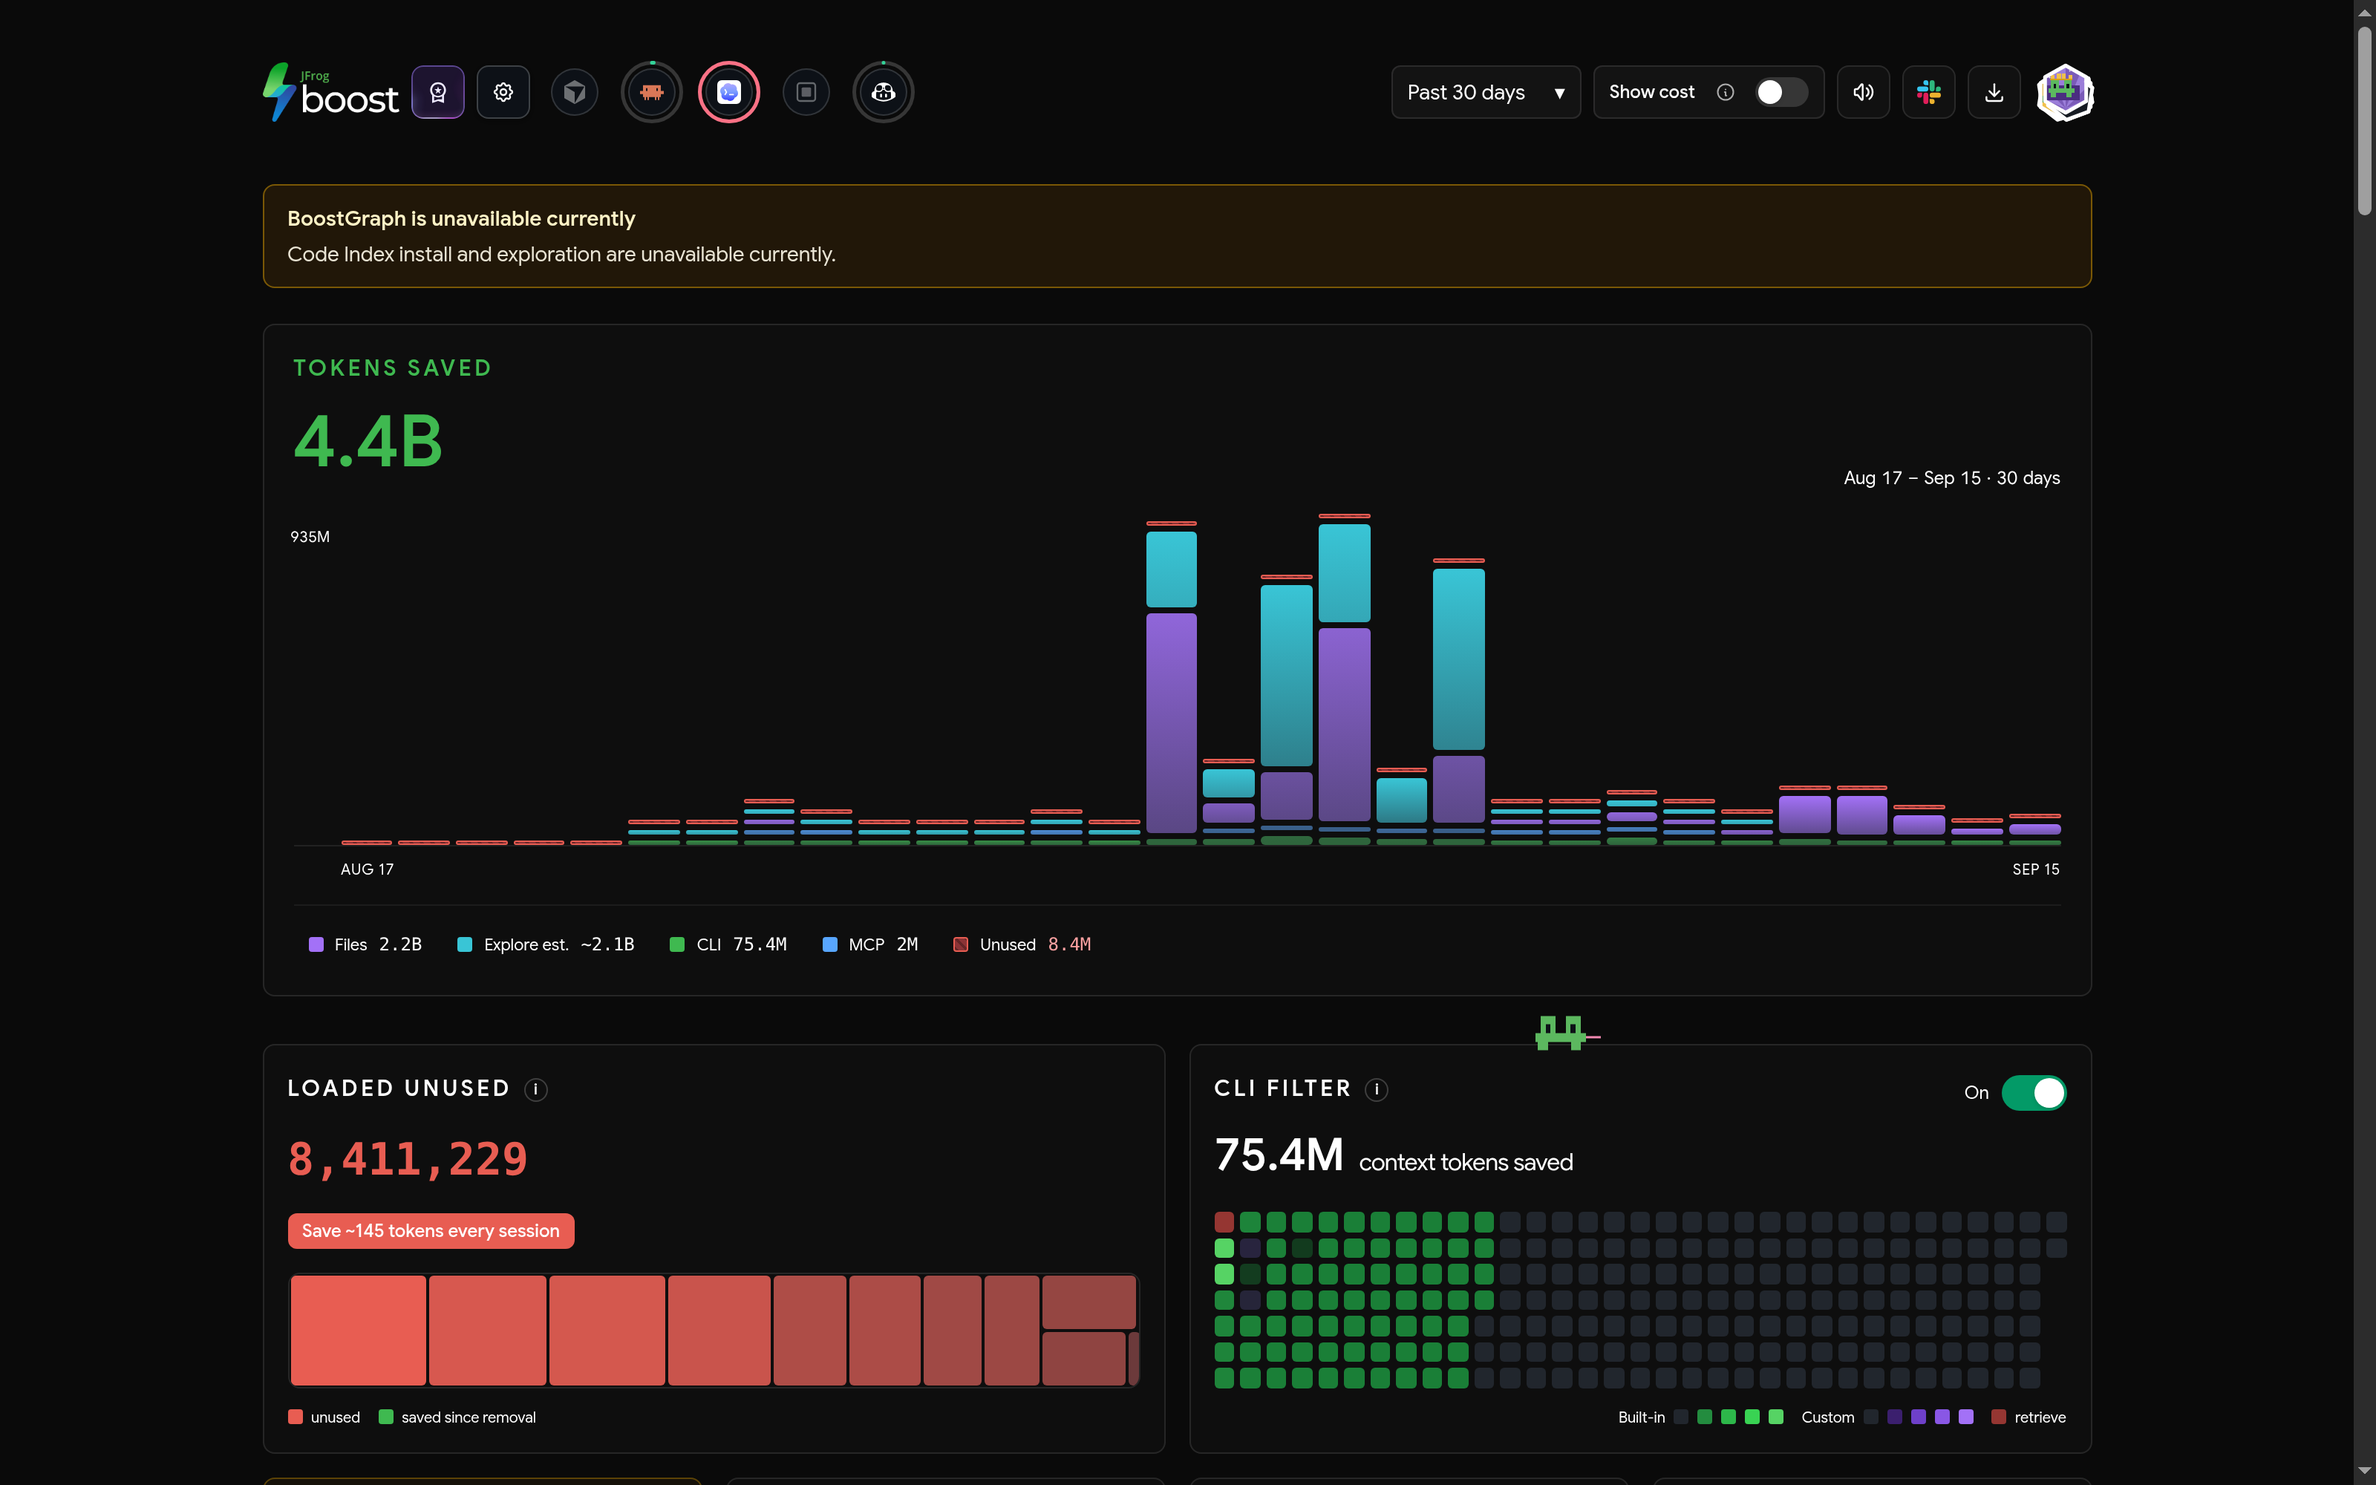
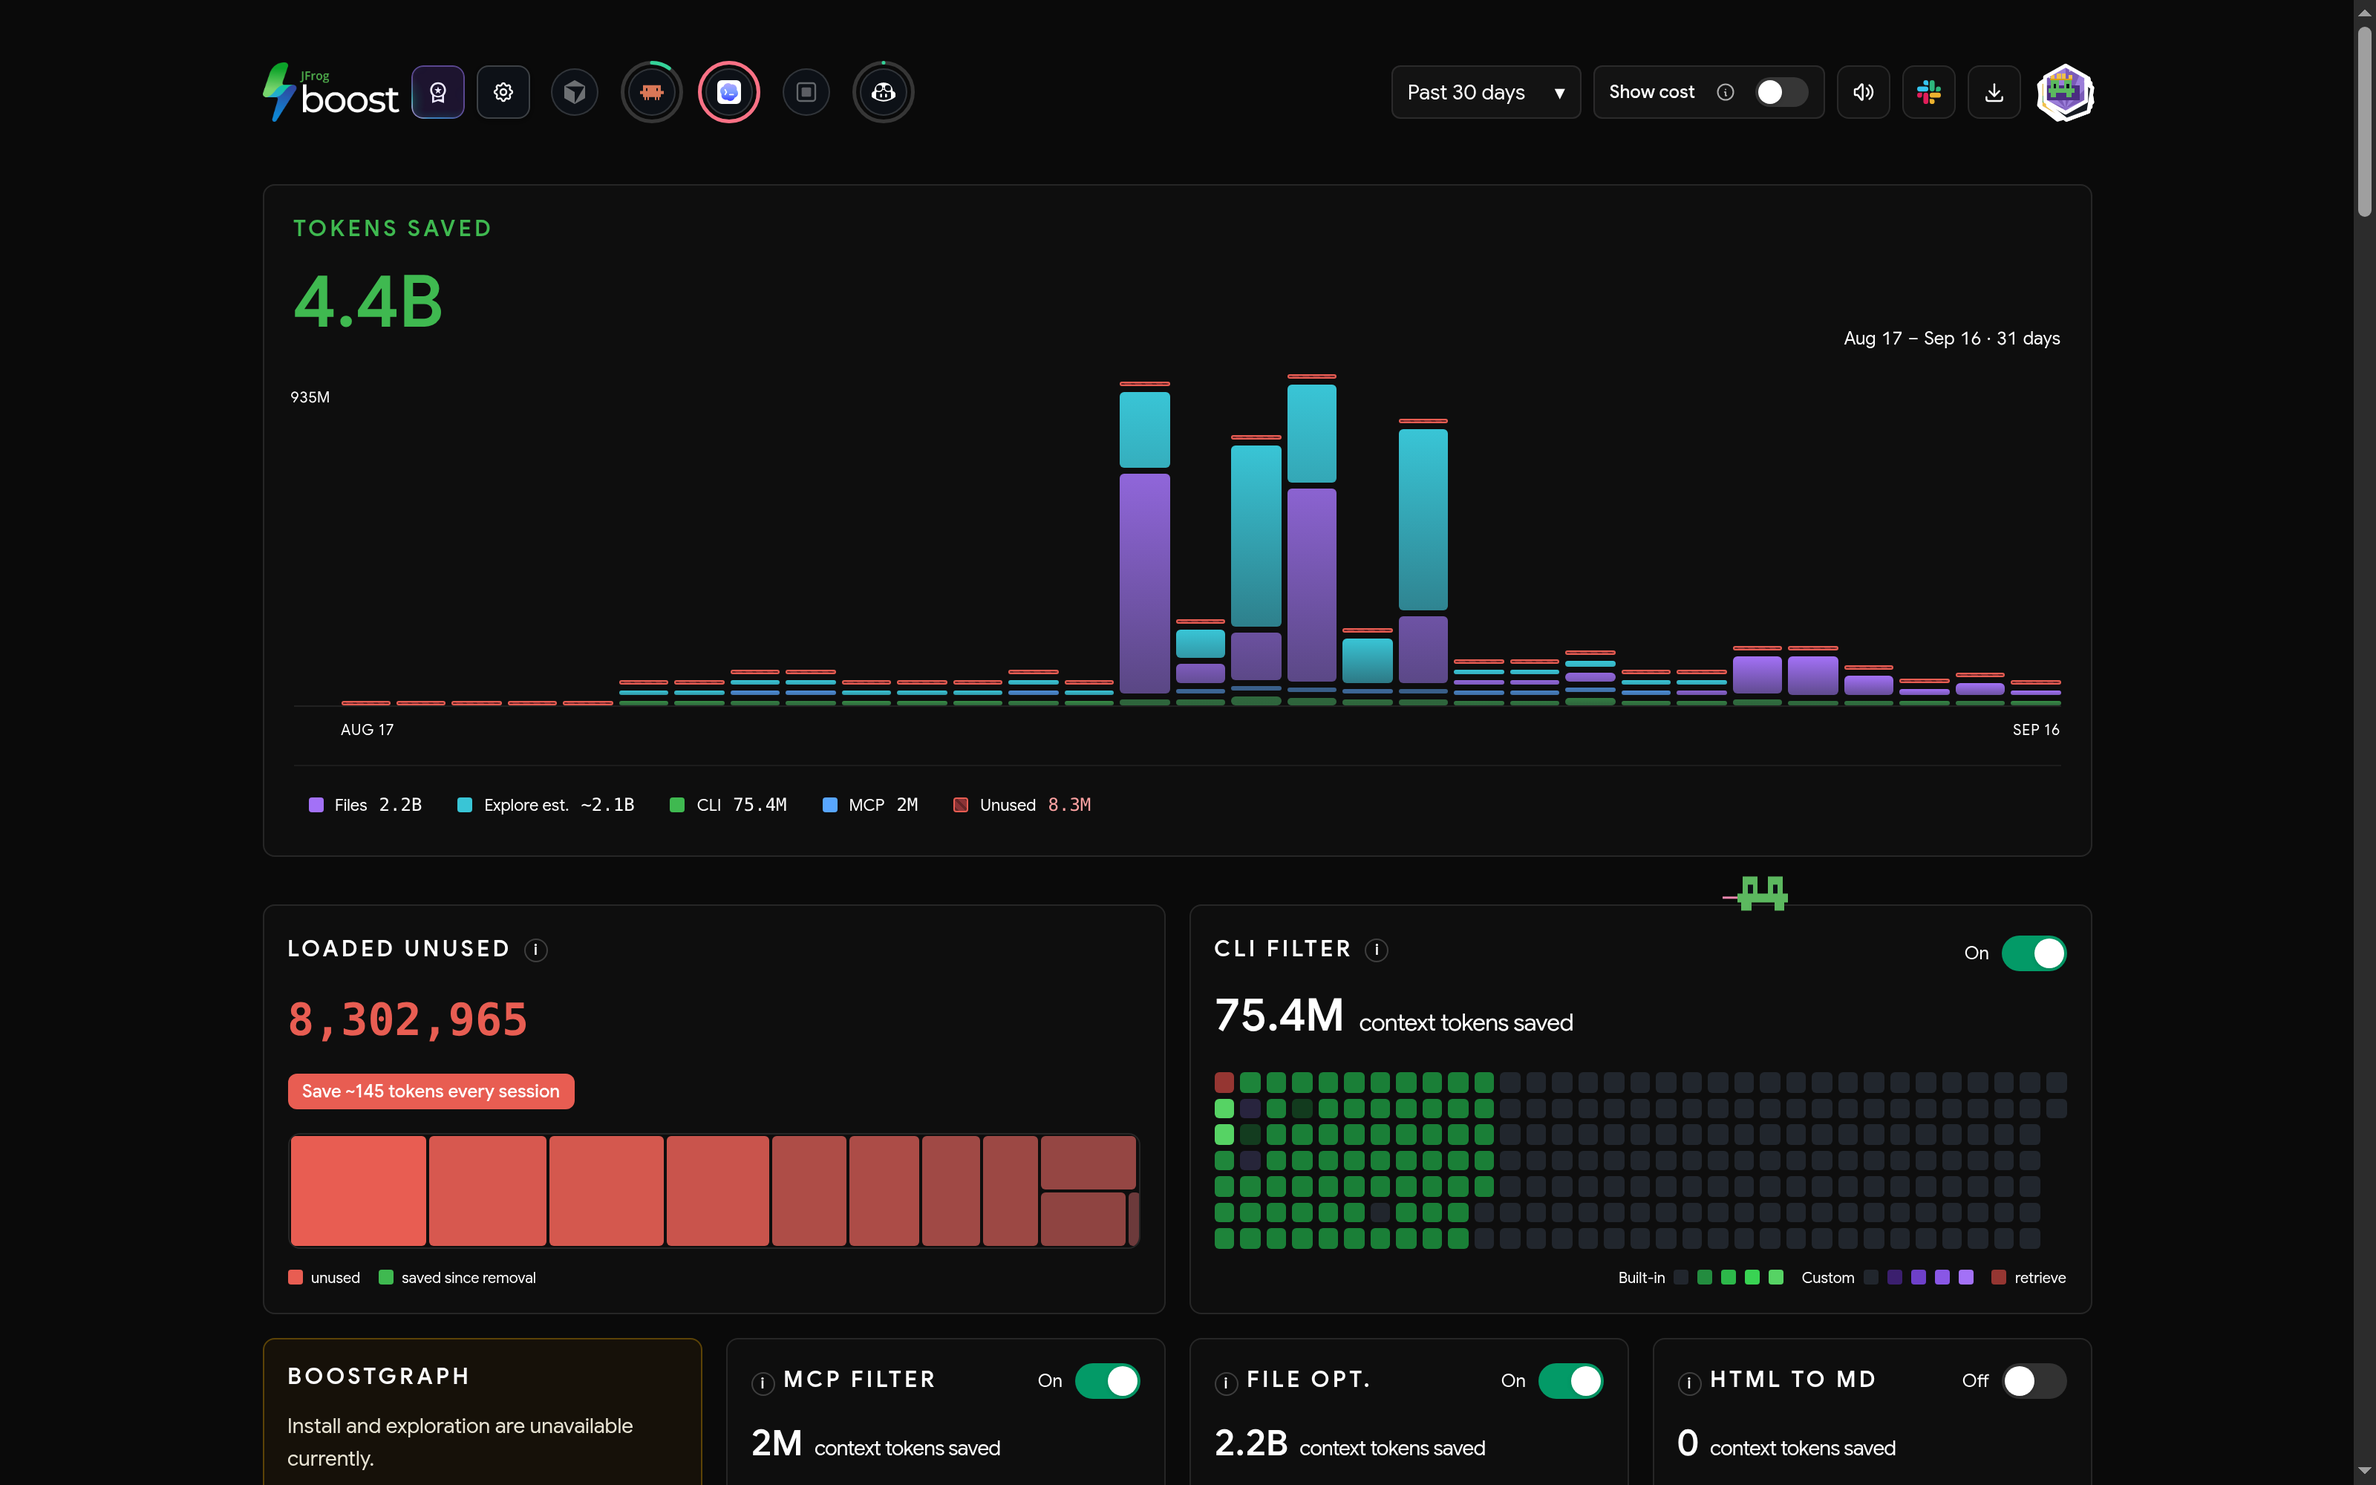
Adopt Boost v0.13.20 selector modes; mark upstream issues fixed
jfrog/boost#83-#86 were closed on 2026-09-16 (fixed in v0.13.20 and
v0.13.21). Each filter's selection was re-measured against a month of
recorded commands:

- git-diff-headers v2: match_mode = "all", with the command widened to
  every git/gh subcommand that prints a patch. Header lines in output
  that is not a diff are no longer stripped; 99.8% of prior savings kept.
- pytest-core: match_mode = "any" declared explicitly; "all" would drop
  56% of its savings, mostly pytest runs inside compound scripts.
- The four command-only filters stay command-only: an output gate would
  have blocked only genuine test runs.

v0.13.22's validator rejects expect_match_output = true on filters with
no output selector, so those assertions are removed, and one fixture
that contradicted its filter's documented whitespace rule is corrected.
verify_filters.py now also runs `boost filters validate`.

README: upstream reports marked fixed with dates, metrics and report
screenshot refreshed.

Claude-Session: https://claude.ai/code/session_0163CAs8WFnH8amSD4WYEKwq

diff --git a/skills/boost-filter-publish/scripts/metrics.py b/skills/boost-filter-publish/scripts/metrics.py
@@ -67,10 +67,10 @@ def render(totals: dict, rows: list, screenshot: str | None) -> str:
                          f"| {human(before)} | {human(after)} | {pct} | {r.get('retrieve_count', 0)} |")
         lines.append("")
         notes = ["A retrieve count above zero means an agent had to recover output that a filter chain removed — "
-                 "the number these filters are tuned to keep at zero. Boost attributes a retrieve to every filter "
-                 "in the chain that handled the command, including filters that changed nothing "
-                 "([jfrog/boost#85](https://github.com/jfrog/boost/issues/85)), so a count here is not proof that "
-                 "this filter was the one responsible."]
+                 "the number these filters are tuned to keep at zero. Before Boost v0.13.20 a retrieve was attributed "
+                 "to every filter in the chain that handled the command, including filters that changed nothing "
+                 "([jfrog/boost#85](https://github.com/jfrog/boost/issues/85), fixed 2026-09-16), so counts "
+                 "recorded before that release are not proof that this filter was the one responsible."]
         if any(not r.get("event_count") for r in rows):
             notes.append("Rows with no events have not yet matched a command inside the window — a filter added "
                          "recently starts at zero and fills in as work runs.")

diff --git a/skills/boost-filter-publish/scripts/verify_filters.py b/skills/boost-filter-publish/scripts/verify_filters.py
@@ -12,6 +12,9 @@
    fixture is proved to still produce its expected output. A filter needs a probe
    command that its `match_command` selects; `commands.toml` supplies one per
    filter (`[commands]` / `[nomatch]`), defaulting to the filter's own name.
+   Each file must also pass `boost filters validate`, whose checks tighten with
+   Boost releases (v0.13.22 rejects `expect_match_output = true` on a filter
+   with no output selector).
 
 Exit code is non-zero if any gate fails.
 """
@@ -57,6 +60,8 @@ def engine_tests(dirpath: pathlib.Path, commands: dict) -> list[str]:
         return [f"boost binary not found at {BOOST}; set BOOST_EXE"]
     failures = []
     for path in sorted(dirpath.glob("*.toml")):
+        if subprocess.run([BOOST, "filters", "validate", str(path)], capture_output=True).returncode:
+            failures.append(f"{path.name}: `boost filters validate` failed")
         spec = tomllib.load(open(path, "rb"))
         name = next(iter(spec.get("filters", {})), None)
         if not name or name not in spec.get("tests", {}):

diff --git a/README.md b/README.md
@@ -15,9 +15,11 @@ Every filter here is tuned to one rule: **savings must never cost the agent sign
 | `pytest-core` | 1 | A replacement for the built-in `pytest` filter, whose progress-line rule also deleted the per-test rows that `-v` prints. Keeps `-v` and `-rA` rows, bare rules and every failure; still drops the session preamble and per-file progress. |
 | `pytest-traceback-dedupe` | 2 | Drops byte-identical repeats of long Python source and locals lines when one fixture breaks a whole suite. Keeps every `>`, `E`, frame pointer and summary line — and, since v2, anything that is not source code. |
 | `unittest-rules` | 2 | Drops `unittest`'s decorative `====`/`----` rules and the tracemalloc hint in real `python -m unittest` / `manage.py test` runs. Keeps every `FAIL`/`ERROR`, traceback, caret row and summary. |
-| `git-diff-headers` | 1 | Drops the `--- a/… / +++ b/…` pair that repeats the `diff --git` line above it. Keeps `/dev/null` headers, hunks, changes and context. |
+| `git-diff-headers` | 2 | Drops the `--- a/… / +++ b/…` pair that repeats the `diff --git` line above it, in the output of `git diff`/`show`/`log -p` and `gh pr diff`. Keeps `/dev/null` headers, hunks, changes and context. Since v2 it runs only when the output really is a patch, so header lines an agent grepped for are left alone. |
 
 Each file carries its own `[[tests]]` cases, so a filter documents its own behaviour and can be checked without installing it.
+
+They need Boost v0.13.20 or later: `git-diff-headers` uses `match_mode = "all"`, which older releases do not have.
 
 ## How these copies are produced
 
@@ -27,7 +29,7 @@ What that rewriting does, and does not, touch:
 
 - **Filter behaviour is never modified.** Only comments, `description` values and `[[tests]]` fixtures can be rewritten. Every field the engine acts on is copied byte-for-byte, and the published file is compared against the source structurally before it is written — if any behaviour field differs, nothing is published.
 - **Fixtures are realistic in shape, not literal.** The tests are derived from real recorded output, so their line shapes, column widths and failure structure are genuine. Identifiers that appeared in them have been replaced with neutral equivalents through a mapping that stays on the machine and is not part of this repository.
-- **Two gates run before anything is committed:** a scan for identifying or credential-shaped strings, and a run of every filter's own tests through the real `boost` binary under a throwaway `HOME`, which proves the published fixtures still produce their expected output.
+- **Two gates run before anything is committed:** a scan for identifying or credential-shaped strings, and a run of every filter through the real `boost` binary: `boost filters validate`, then its own tests under a throwaway `HOME`, which proves the published fixtures still produce their expected output.
 
 ## Installing
 
@@ -82,34 +84,40 @@ python3 skills/boost-filter-publish/scripts/verify_filters.py \
     --dir filters --commands skills/boost-filter-publish/reference/commands.toml
 ```
 
-This runs every filter's test cases through your own `boost` binary, each filter in isolation with the others disabled, and scans the files for anything that should not be published. It needs nothing from the machine these came from.
+Boost's own validator checks the same files:
+
+```bash
+for f in filters/*.toml; do boost filters validate "$f"; done
+```
+
+The script runs every filter's test cases through your own `boost` binary, each filter in isolation with the others disabled, and scans the files for anything that should not be published. It needs nothing from the machine these came from.
 
 ## Local impact
 
 <!-- metrics:start -->
 
-*Measured on the install these filters come from, over the last 30 days; refreshed automatically, last on 2026-09-15.*
+*Measured on the install these filters come from, over the last 30 days; refreshed automatically, last on 2026-09-16.*
 
 | | |
 |---|---|
-| Commands recorded | 109,292 |
-| Tokens removed from tool output | 28.8M |
+| Commands recorded | 109,848 |
+| Tokens removed from tool output | 28.9M |
 | Tokens never re-sent in later turns | 4.4B |
-| Estimated cost avoided | $21,898 |
-| Estimated CO₂e avoided | 919.7 kg |
+| Estimated cost avoided | $21,930 |
+| Estimated CO₂e avoided | 921.1 kg |
 
 These filters' own share of that, by filter:
 
 | Filter | Enabled | Events | Tokens before | Tokens after | Saved | Retrieves |
 |---|---|---:|---:|---:|---:|---:|
-| `git-diff-headers` | yes | 2,598 | 11.7M | 11.6M | 1% | 0 |
+| `git-diff-headers` | yes | 2,600 | 11.7M | 11.6M | 1% | 0 |
 | `unittest-rules` | yes | 4,028 | 4.6M | 4.5M | 3% | 6 |
 | `pytest-traceback-dedupe` | yes | 1,218 | 736.2K | 625.2K | 15% | 2 |
 | `lint-row-padding` | yes | 0 | 0 | 0 | — | 0 |
 | `pytest-core` | yes | 0 | 0 | 0 | — | 0 |
 | `testem-tap-passes` | yes | 0 | 0 | 0 | — | 0 |
 
-A retrieve count above zero means an agent had to recover output that a filter chain removed — the number these filters are tuned to keep at zero. Boost attributes a retrieve to every filter in the chain that handled the command, including filters that changed nothing ([jfrog/boost#85](https://github.com/jfrog/boost/issues/85)), so a count here is not proof that this filter was the one responsible.
+A retrieve count above zero means an agent had to recover output that a filter chain removed — the number these filters are tuned to keep at zero. Before Boost v0.13.20 a retrieve was attributed to every filter in the chain that handled the command, including filters that changed nothing ([jfrog/boost#85](https://github.com/jfrog/boost/issues/85), fixed 2026-09-16), so counts recorded before that release are not proof that this filter was the one responsible.
 
 Rows with no events have not yet matched a command inside the window — a filter added recently starts at zero and fills in as work runs.
 
@@ -131,11 +139,11 @@ It is written to be generic: the filter directory, the identifying terms and the
 
 ## Related upstream reports
 
-Four engine behaviours found while building these, reported against Boost v0.13.19:
+Four engine behaviours found while building these, reported against Boost v0.13.19. All four were closed as completed by JFrog on 2026-09-16:
 
-- [jfrog/boost#83](https://github.com/jfrog/boost/issues/83) — regex lookaheads are silently ignored in filters
-- [jfrog/boost#84](https://github.com/jfrog/boost/issues/84) — `match_command` and `match_output_select` combine with OR
-- [jfrog/boost#85](https://github.com/jfrog/boost/issues/85) — retrieve counts are attributed to every filter in a chain
-- [jfrog/boost#86](https://github.com/jfrog/boost/issues/86) — the retrieval marker can make short outputs larger
+- [x] [jfrog/boost#83](https://github.com/jfrog/boost/issues/83) — regex lookaheads are silently ignored in filters. *Fixed 2026-09-16 in v0.13.20*: filter validation now reports invalid regular expressions, and the `gha-log` rule was repaired.
+- [x] [jfrog/boost#84](https://github.com/jfrog/boost/issues/84) — `match_command` and `match_output_select` combine with OR. *Fixed 2026-09-16 in v0.13.20*: an opt-in matching mode now requires every selector to match.
+- [x] [jfrog/boost#85](https://github.com/jfrog/boost/issues/85) — retrieve counts are attributed to every filter in a chain. *Fixed 2026-09-16 in v0.13.20*: retrieves now go only to filters that changed the output.
+- [x] [jfrog/boost#86](https://github.com/jfrog/boost/issues/86) — the retrieval marker can make short outputs larger. *Fixed 2026-09-16 in v0.13.21*: the marker is skipped when it would make the output larger than the original.
 
-The first two shape how these filters are written: exclusions are expressed positively rather than with lookaheads, and a filter that must not touch someone else's output carries no output fingerprint at all.
+The first two shaped how these filters were written: exclusions are expressed positively rather than with lookaheads, and a filter that must not touch someone else's output carries no output fingerprint at all. After #84 was fixed, each filter was measured against a month of recorded commands to decide its selection mode. `git-diff-headers` now uses `match_mode = "all"`, with its command widened to every git or gh subcommand that prints a patch. `pytest-core` keeps `"any"` on purpose, because most of its savings come from pytest runs inside compound scripts. The other four stay command-only, because an output gate would have blocked only real test runs. The reasoning and the numbers are in each file's header comment.

diff --git a/skills/boost-filter-publish/SKILL.md b/skills/boost-filter-publish/SKILL.md
@@ -72,7 +72,8 @@ The leak scan looks for alias terms, the local user and host names, home paths,
 e-mail addresses, UUIDs and credential-shaped strings. The engine gate runs every
 filter's own test cases through the real `boost` binary under a throwaway `HOME`
 with all other filters disabled, which proves the scrubbed fixtures still produce
-their expected output. If either fails, fix and re-run — do not publish.
+their expected output. It also runs `boost filters validate` on each file, whose checks tighten
+between Boost releases — a filter set that passed last week can fail today. If either fails, fix and re-run — do not publish.
 
 **4. Copy in and refresh the metrics.**
 
